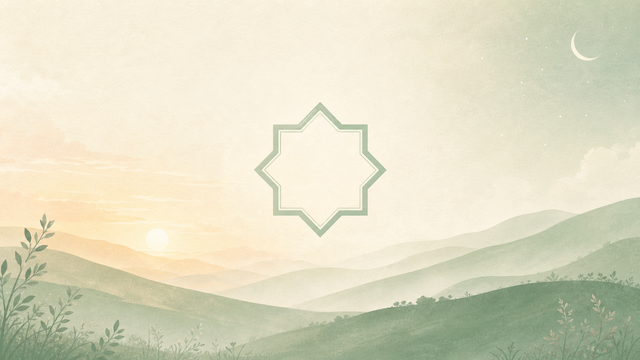
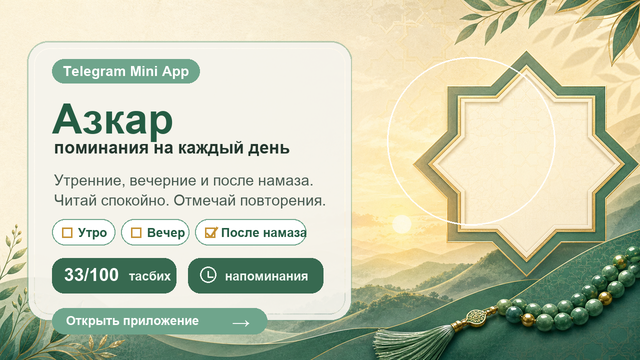
feat(azkar): усилить welcome-баннер бота

diff --git a/bot/server.js b/bot/server.js
@@ -143,7 +143,10 @@ if (!TOKEN) {
     subs[id] = { ...(subs[id] || {}), id, name: msg.from.first_name || '', since: subs[id]?.since || Date.now() };
     saveSubs(subs);
     bot.sendPhoto(id, WELCOME_IMAGE, { caption: WELCOME_CAPTION, parse_mode: 'HTML', ...kb })
-      .catch(() => bot.sendMessage(id, WELCOME_CAPTION, { parse_mode: 'HTML', ...kb }));
+      .catch((e) => {
+        console.warn('[bot] welcome photo не отправилось:', e?.message || e);
+        return bot.sendMessage(id, WELCOME_CAPTION, { parse_mode: 'HTML', ...kb });
+      });
   });
   bot.onText(/\/help/, (msg) => {
     bot.sendMessage(msg.chat.id, HELP_TEXT, { parse_mode: 'HTML', ...kb });
